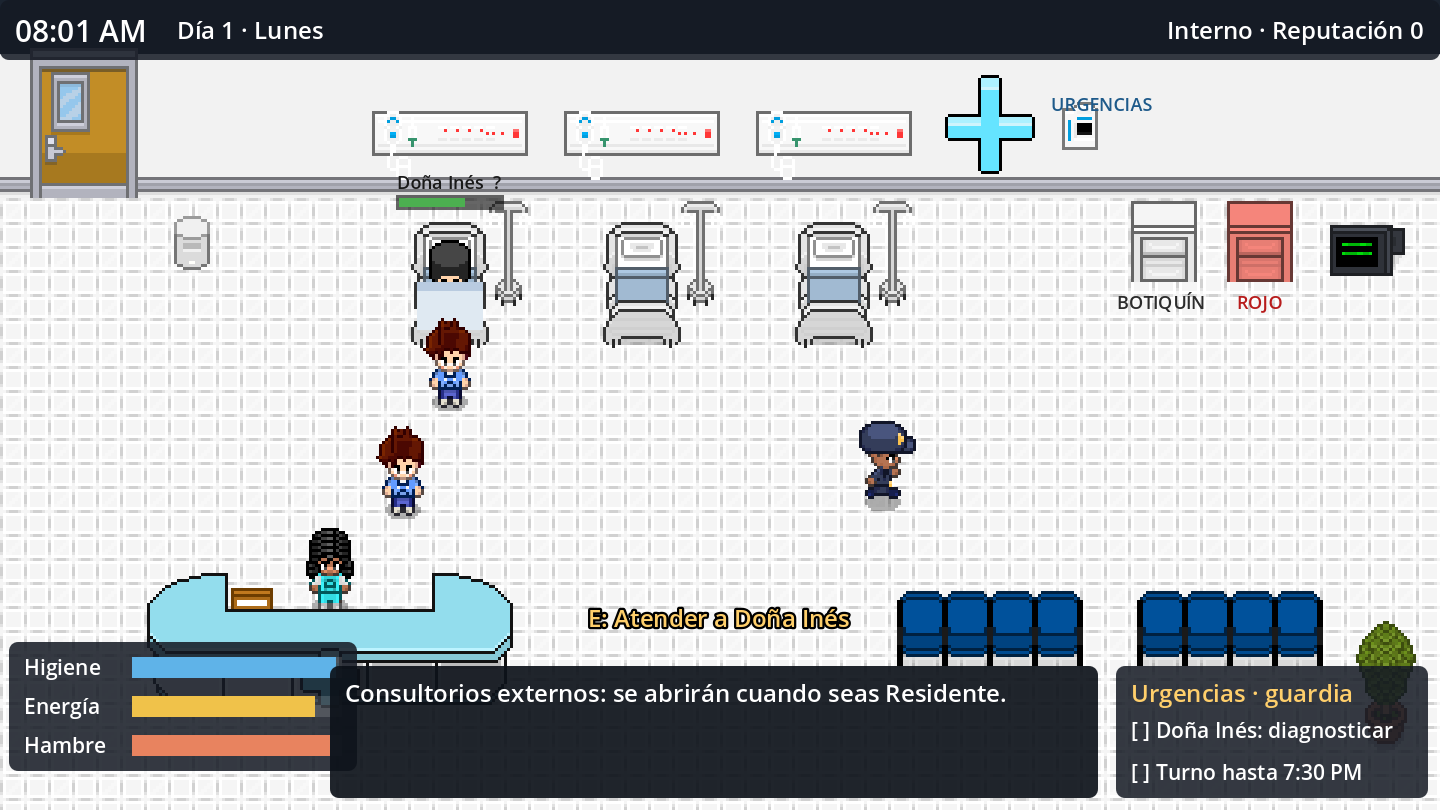
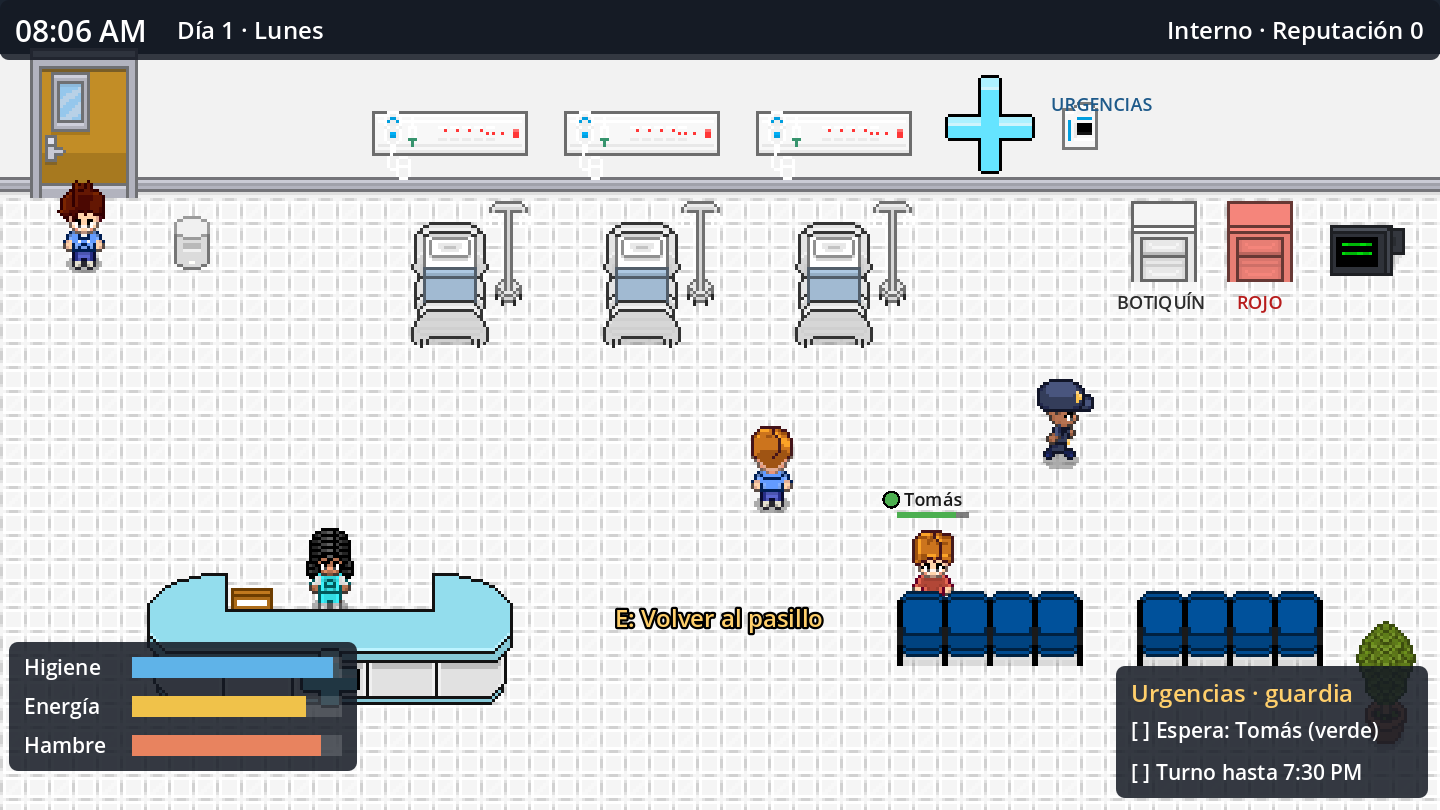
feat: sueldo, celular, fin de semana y evaluación del viernes
- Dinero: sueldo por turno pagado el viernes con la evaluación semanal de Salgado
  (nota, bono de reputación); arriendo cada lunes
- Nevera: cada comida gasta una; mercado y domicilio desde el celular
- Celular (C): mensajes con respuesta (mamá, Lucía, Wilder, Diego...), tienda
  (mercado, domicilio, cafetera, cama nueva) y banco
- Sábado y domingo libres: mercado, parque o visitar a mamá
- Pacientes siguen una ruta fija hasta la sala de espera (no se atascan)

diff --git a/README.md b/README.md
@@ -23,6 +23,7 @@ El Dr. **Walter Pinkman** empieza como interno en el Hospital de Pillbox. Cada d
 | WASD / flechas | Moverse |
 | E o Espacio | Interactuar con lo que está cerca |
 | 1-9 o clic | Elegir opción en los menús · Esc cancela |
+| C | Abrir el celular (mensajes, tienda, banco) |
 | Tab (mantener) | Acelerar el tiempo ×10 (para probar) |
 
 ## Versión 1: qué incluye
@@ -54,12 +55,32 @@ El Dr. **Walter Pinkman** empieza como interno en el Hospital de Pillbox. Cada d
 - Los textos se escriben letra por letra con un sonidito de voz retro distinto para cada personaje; E salta o avanza.
 - Música tranquila en el hospital y otra, más hogareña, en la casa. Efectos: altavoz, puertas, alarma, acierto y error.
 
+**Relaciones y diálogos con respuesta**
+- Muchas conversaciones terminan con respuestas para elegir. Cada NPC tiene un medidor de amistad (corazones junto a su nombre) que se guarda.
+- Con amistad: Lucía vigila a un paciente para que no empeore, Erina avisa qué trae el próximo paciente y Cristian Daniel trae un insumo. Cubrir a Wilder deja un favor que se cobra pidiéndole que atienda a un paciente.
+- A los pacientes se les puede calmar (empeoran más lento).
+- Historias por días: **Zacarías y la oficial Dakota** (tus consejos deciden si la invita a un café) y **Wilder y Salgado** (encubrirlo, delatarlo o no meterse; si lo encubres, termina trabajando en urgencias). Diego Quiroz molesta al interno Jinu Blake con lo de la señorita Sheyla.
+
+**Carrera: estudiar y ascender**
+- Escritorio de la casa: estudiar 30 min o 1 h, con una pregunta de repaso (acertar suma media hora).
+- Tablón de capacitaciones en el pasillo: con reputación 80, 5 h de estudio y 3 turnos, Walter elige especialidad (Urgencias, Pediatría o Cirugía) y pasa a **Residente**. Se abre su consultorio y llegan casos e insumos de su especialidad.
+
+**Sala de espera y triaje**
+- Los pacientes entran caminando a urgencias y esperan frente a las sillas. Lucía los marca en rojo, amarillo o verde y Walter decide a quién pasa a cada camilla.
+
+**Dinero, celular y fin de semana**
+- Sueldo por turno ($60 Interno, $110 Residente) que se paga el viernes, junto con la **evaluación semanal** de Salgado (nota y bono de reputación). Arriendo de $150 cada lunes.
+- La nevera se gasta al comer; se compra mercado o domicilio desde el celular. Mejoras: cafetera y cama nueva.
+- Celular (tecla C): mensajes de mamá, Lucía, Wilder, Diego y otros (algunos con respuesta), tienda y banco.
+- Sábado y domingo no hay turno: mercado, parque o visitar a mamá.
+
 ## Estructura
 
 ```
 project.godot
 escenas/   menu.tscn · casa.tscn · hospital.tscn
-scripts/   juego.gd (autoload «Juego»: reloj, necesidades, guardado)
+scripts/   juego.gd (autoload «Juego»: reloj, necesidades, dinero, amistad, guardado)
+           casos.gd (casos clínicos, herramientas e insumos)
            sala.gd (base de casa y hospital) · casa.gd · hospital.gd
            walter.gd · npc.gd (NPC que caminan y hablan) · personaje.gd (sprites MetroCity por capas) · hud.gd · interactuable.gd · fondo.gd · menu.gd
 pruebas/   prueba.tscn + corredor.gd (juega un día y medio automáticamente)
@@ -79,4 +100,4 @@ Las salas se construyen por código en `construir()` (muebles, zonas interactuab
 
 ## Pendiente para la versión 2
 
-- Estudiar en el escritorio, estrés, dinero y sueldo, eventos aleatorios, evaluación semanal de Salgado, capacitaciones y ascenso de rango.
+- Estrés, eventos aleatorios, horas extra y capacitaciones siguientes (Especialista → Jefe de servicio → Director).
